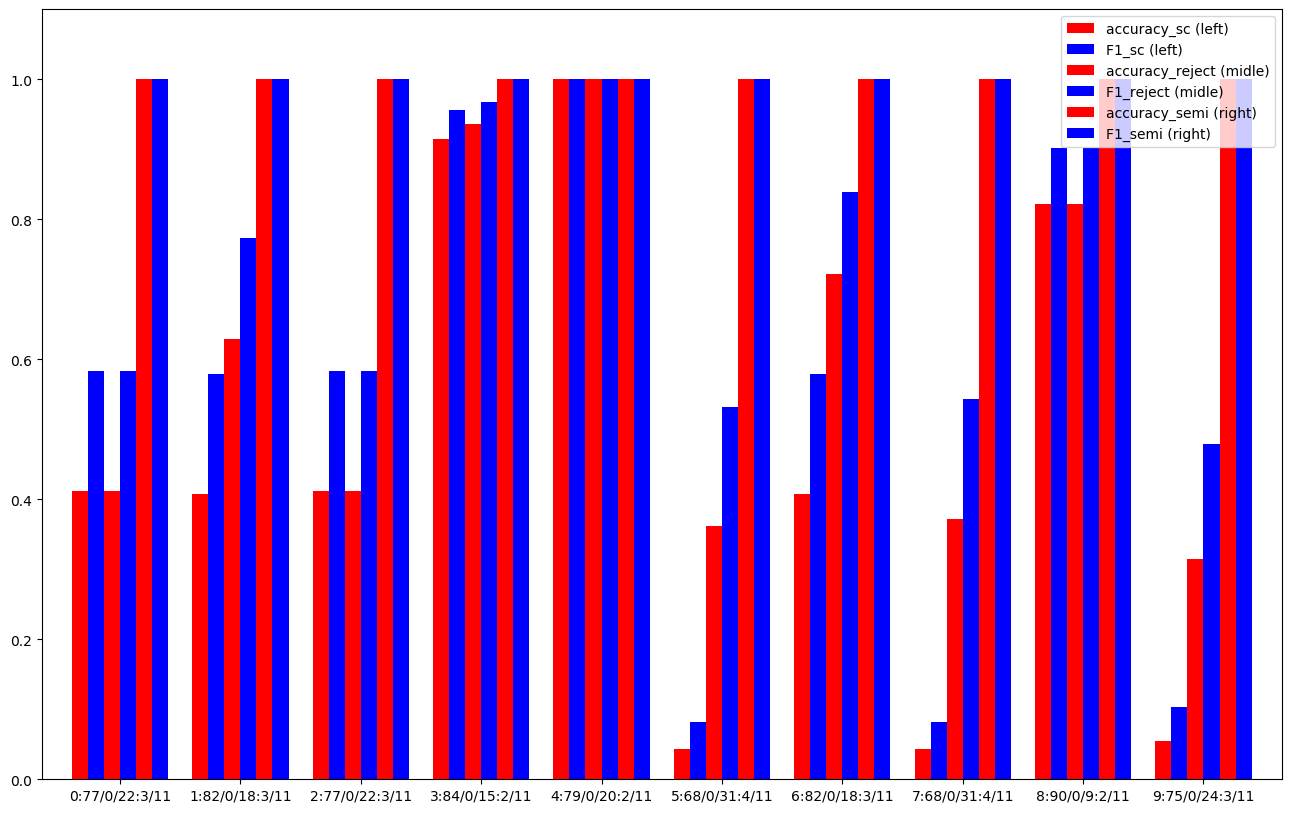
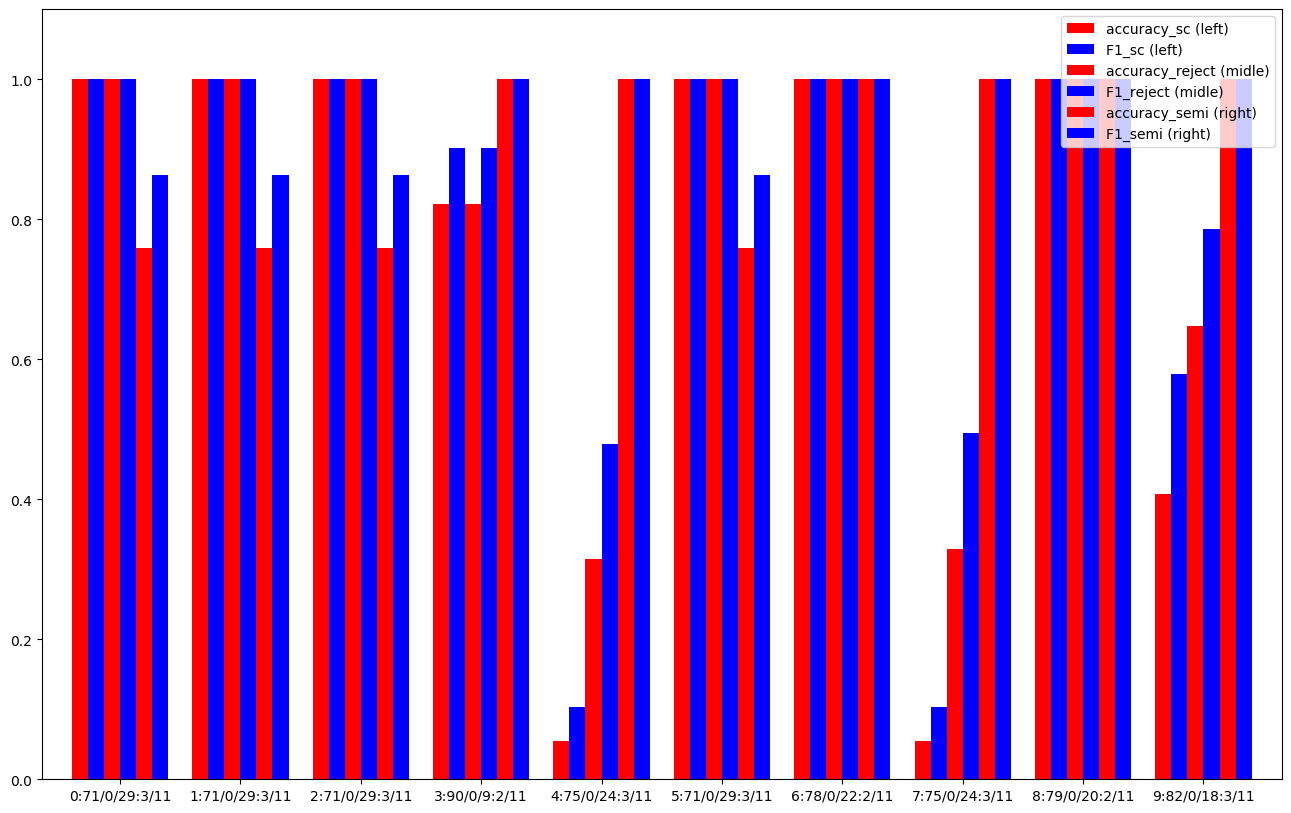
0

diff --git a/Code/ClassificificationWithRejection/Comparison.py b/Code/ClassificificationWithRejection/Comparison.py
@@ -21,10 +21,10 @@ def main(prefixFileName, data_seed, predictive_alg, embedded_option, control_nei
     y= Xy[:,0].astype(int)
     spl =  Spliter(proportion_unknown = proportion_unknown, left_out_proportion = left_out_proportion, random_seed = data_seed)
     train_indices, test_indices, unknown_classes = spl.Split(X, y)
-# embedding features 
+    # embedding features 
     print("Unknown classes: ", set(unknown_classes))
-    print(y[train_indices])
-    print(y[test_indices])
+    # print(y[train_indices])
+    # print(y[test_indices])
 
     ids = [i for i in range(X.shape[0])]
     # run srnc
@@ -40,7 +40,7 @@ def main(prefixFileName, data_seed, predictive_alg, embedded_option, control_nei
     #run SemiClassifier
     clf = SemiClassifier()
     y_predict_SemiClassifier = clf.predict(X[train_indices], y[train_indices], X[test_indices], len(set(y)) + 3)
- #Saving results 
+    # Saving results 
     train_1_test_0_ids = [1 if i in train_indices else 0 for i in ids]
     true_labels = [y[i] for i in ids]
     predicted_labels_semi = [y_predict_SemiClassifier[test_indices.index(i)] if i in test_indices else -1 for i in ids]

diff --git a/Code/ClassificificationWithRejection/Runme.py b/Code/ClassificificationWithRejection/Runme.py
@@ -103,7 +103,7 @@ def test_information(train_1_test_0_ids, true_labels, known_1_unknown_0_classes,
 # sys.exit()
 # for prefixFileName in ["pollen", "patel", "baron","muraro", "xin", "zeisel"]:
 for prefixFileName in ["pollen", "patel", "baron"]:
-    for left_out_proportion in [0.0, 0.1, 0.5, 0.9]:
+    for left_out_proportion in [0.0, 0.2, 0.5, 0.8]:
     #    prefixFileName = "pollen"
         ARI_overall_srnc_all = []
         accuracy_srnc_all = []
